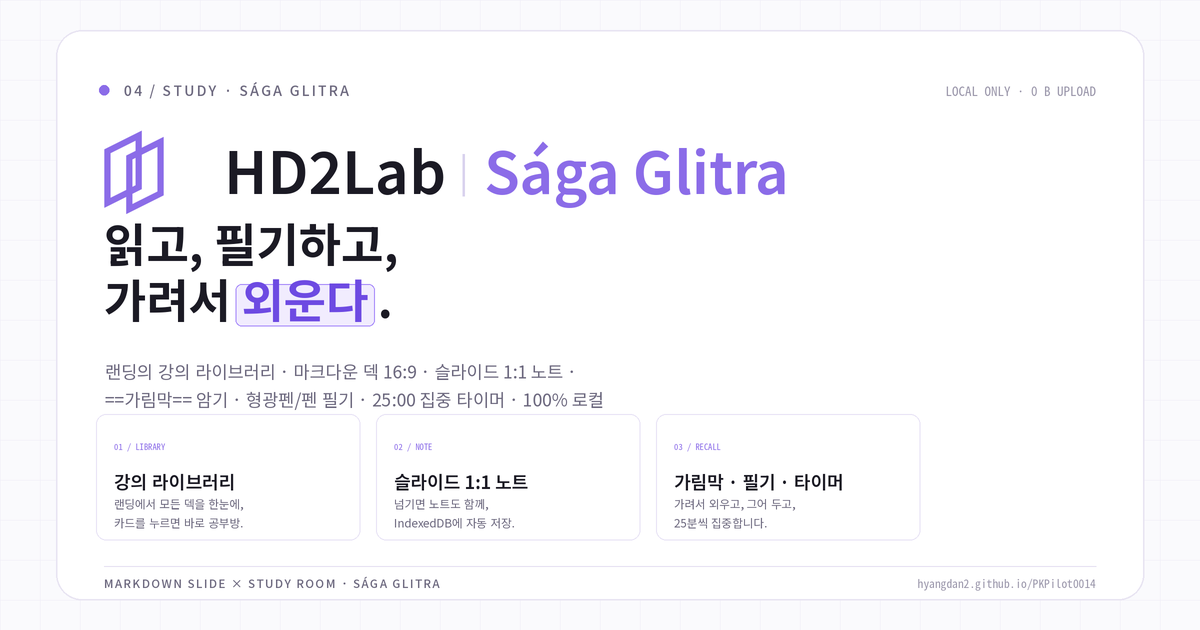
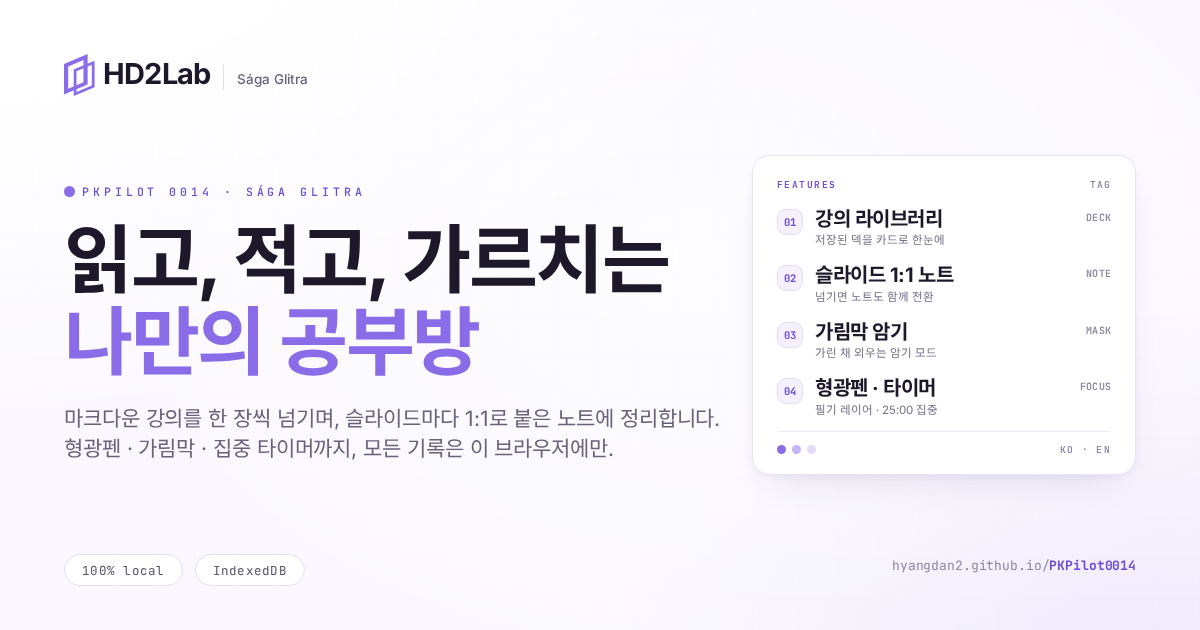
chore(og): share card in the HD2's Diary OG style
Rebuild og:image / twitter:image as the 1200x630 Diary-style card (Soft Iris wash, dual-skew mark, left title, right feature card) and bump the cache-busting query to ?v=20261121-og.

diff --git a/index.html b/index.html
@@ -36,11 +36,11 @@
     <meta property="og:url" content="https://hyangdan2.github.io/PKPilot0014/" />
     <meta
       property="og:image"
-      content="https://hyangdan2.github.io/PKPilot0014/og-image.png?v=20261121-sagaglitra"
+      content="https://hyangdan2.github.io/PKPilot0014/og-image.png?v=20261121-og"
     />
     <meta
       property="og:image:secure_url"
-      content="https://hyangdan2.github.io/PKPilot0014/og-image.png?v=20261121-sagaglitra"
+      content="https://hyangdan2.github.io/PKPilot0014/og-image.png?v=20261121-og"
     />
     <meta property="og:image:type" content="image/png" />
     <meta property="og:image:width" content="1200" />
@@ -59,7 +59,7 @@
     />
     <meta
       name="twitter:image"
-      content="https://hyangdan2.github.io/PKPilot0014/og-image.png?v=20261121-sagaglitra"
+      content="https://hyangdan2.github.io/PKPilot0014/og-image.png?v=20261121-og"
     />
   </head>
   <body>
